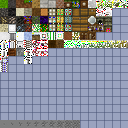
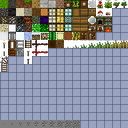
whoops! was calling downsample2x with wrong params

diff --git a/mipmap.js b/mipmap.js
@@ -27,7 +27,7 @@ function makeTileMipMap(tilearray) {
         for(var k=0; k<channels; ++k) {
           var t0 = level.pick(i,j,undefined,undefined,k)
           var t1 = plevel.pick(i,j,undefined,undefined,k)
-          downsample(t0, t1)
+          downsample(t0, t1, 0, 255)
         }
       }
     }
